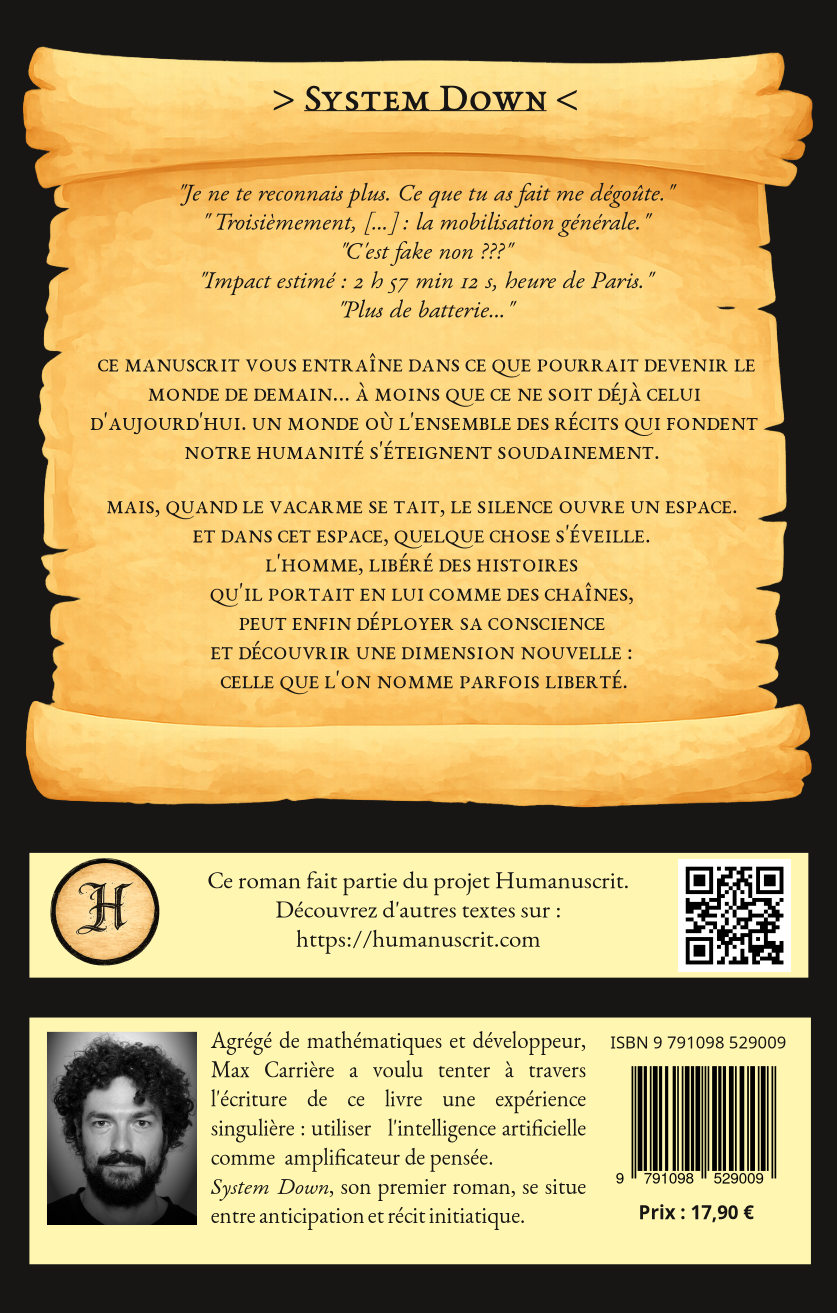
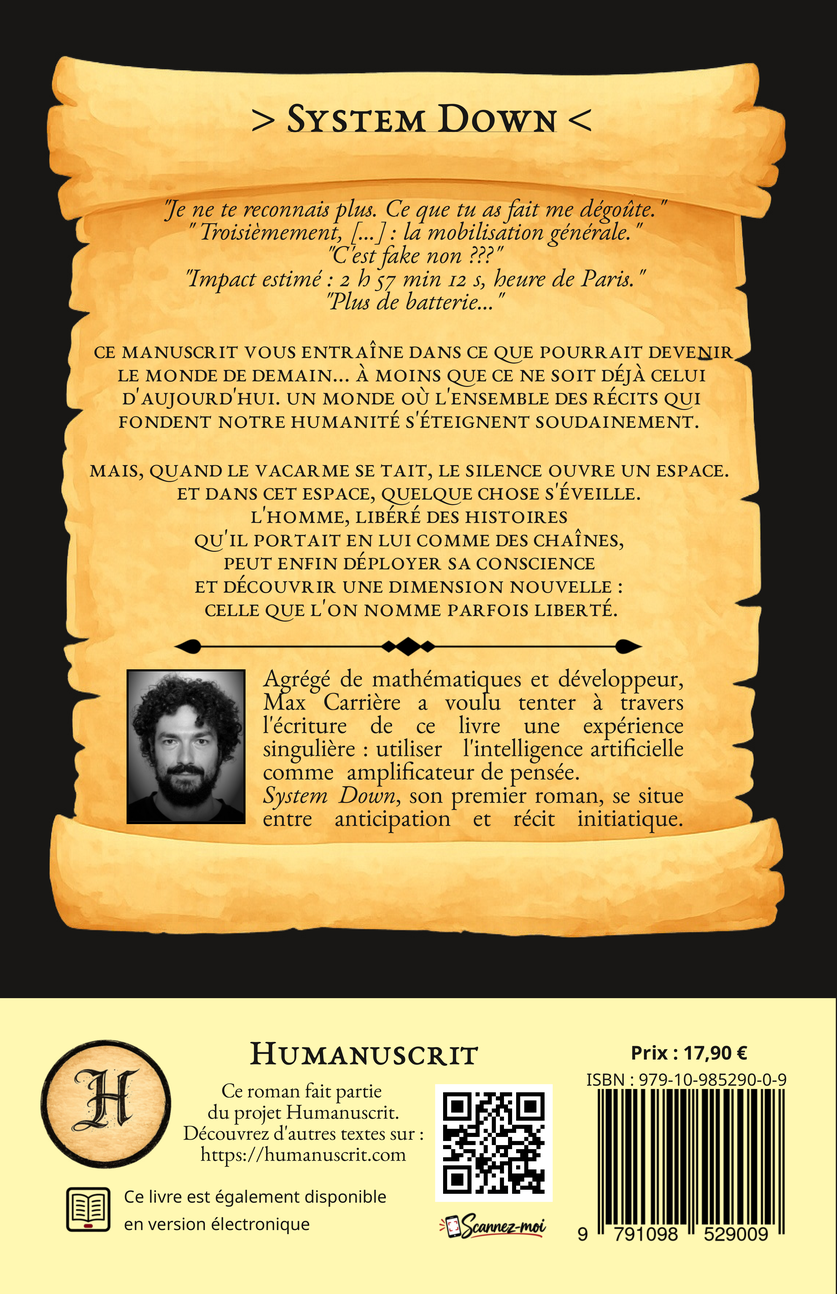
System Down : nouvelles images de couverture (1re, 4e) et pagination à 221 pages
Images régénérées depuis le PDF de couverture final (découpe au format rogné, sans déformation).
Nombre de pages mis à jour dans la fiche, le JSON-LD et llms.txt.

diff --git a/_includes/head.html b/_includes/head.html
@@ -43,7 +43,7 @@
   },
   "inLanguage": "fr",
   "datePublished": "2026-10-15",
-  "numberOfPages": 216,
+  "numberOfPages": 221,
   "publisher": {
     "@type": "Organization",
     "name": "Humanuscrit",

diff --git a/productions/system-down.md b/productions/system-down.md
@@ -49,7 +49,7 @@ Mais System Down n'est pas seulement un roman apocalyptique. Là où la plupart 
 Ce que raconte ce livre n'appartient peut-être déjà plus à la science-fiction. Deepfakes, désinformation, effondrement de la confiance dans les institutions, incapacité à distinguer le vrai du faux, autonomie croissante de l'IA : c'est déjà le monde dans lequel nous vivons. Plus actuel que jamais, System Down ne fait qu'en tirer le fil jusqu'au bout... Et son mécanisme d'écriture n'est pas étranger à ce qu'il raconte.
 
 Premier roman de Max Carrière.
-220 pages · 12 chapitres
+221 pages · 12 chapitres
 
 ### Chapitres
 
